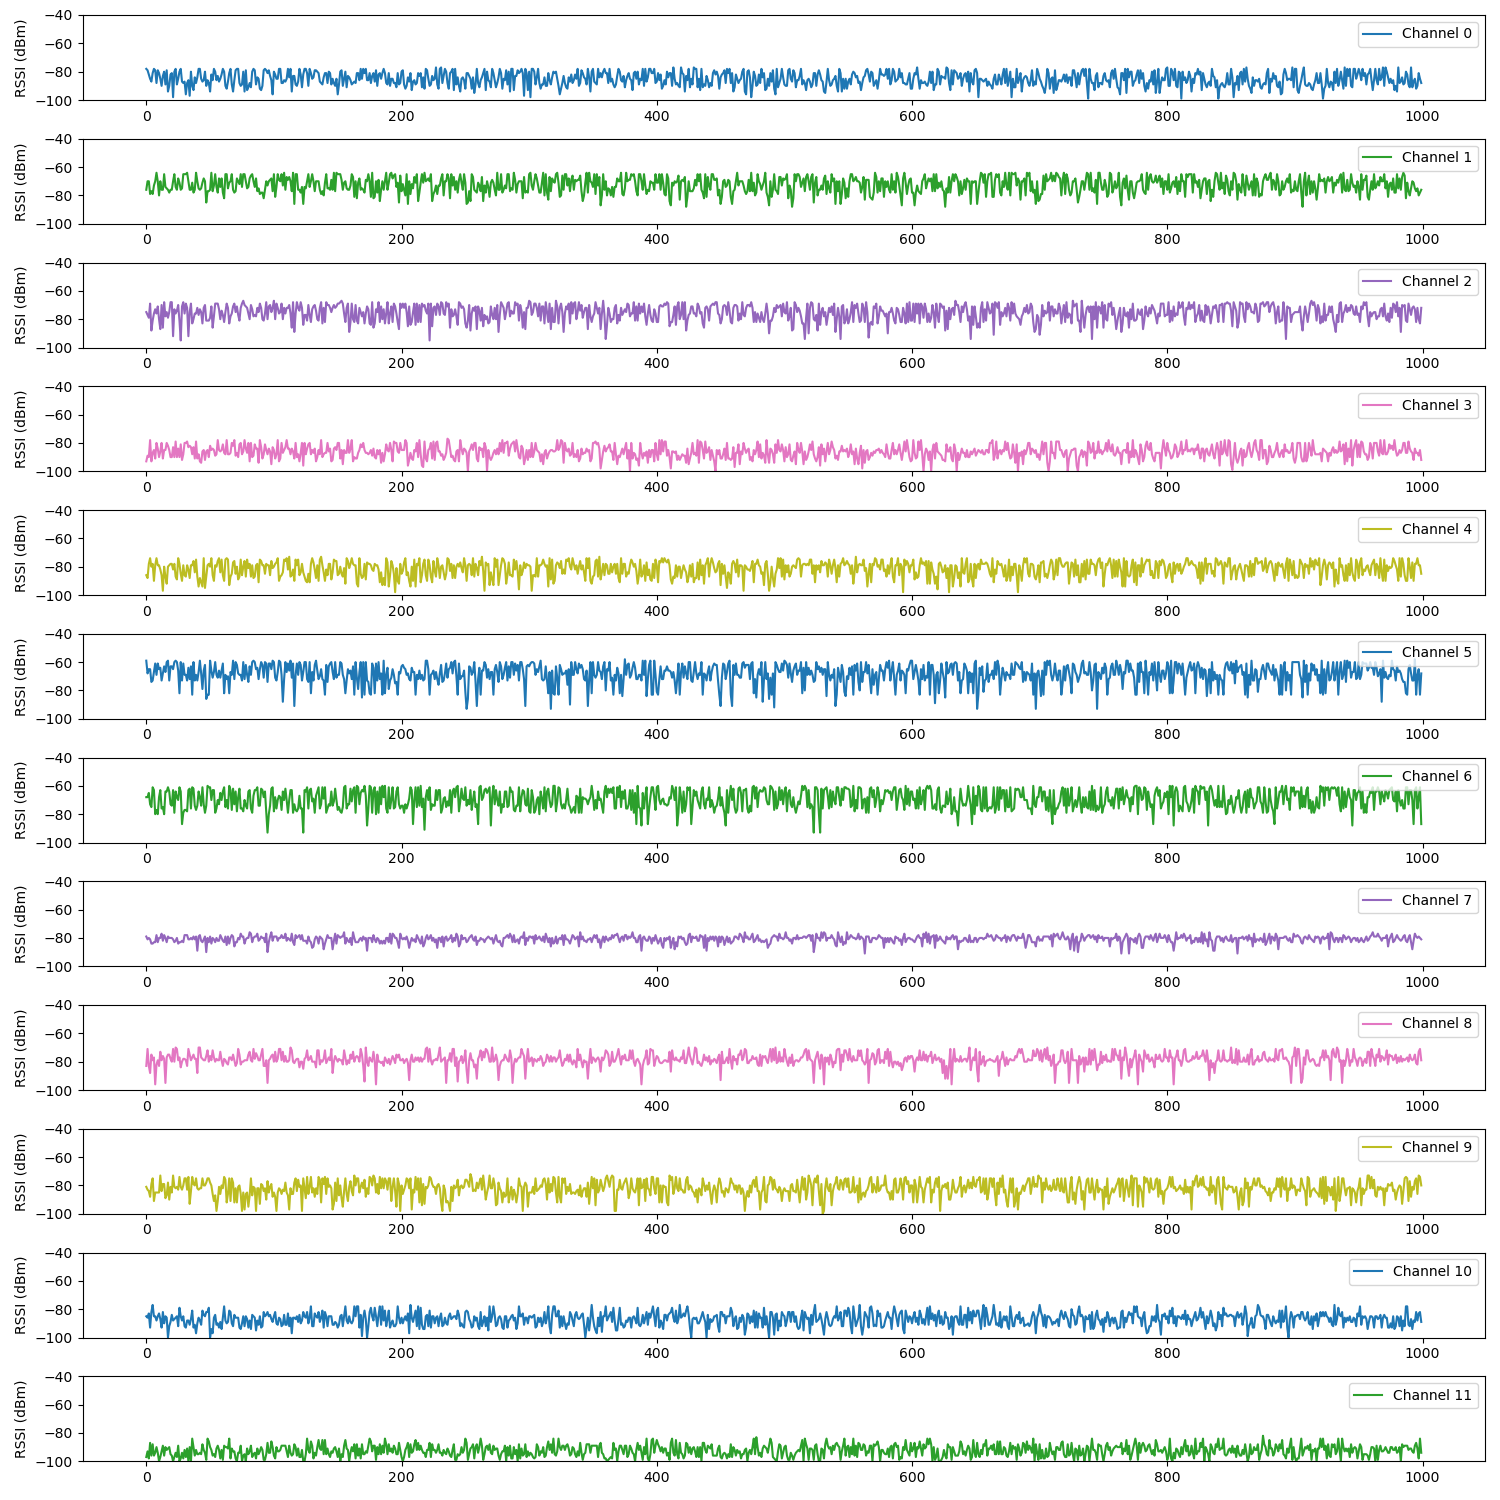
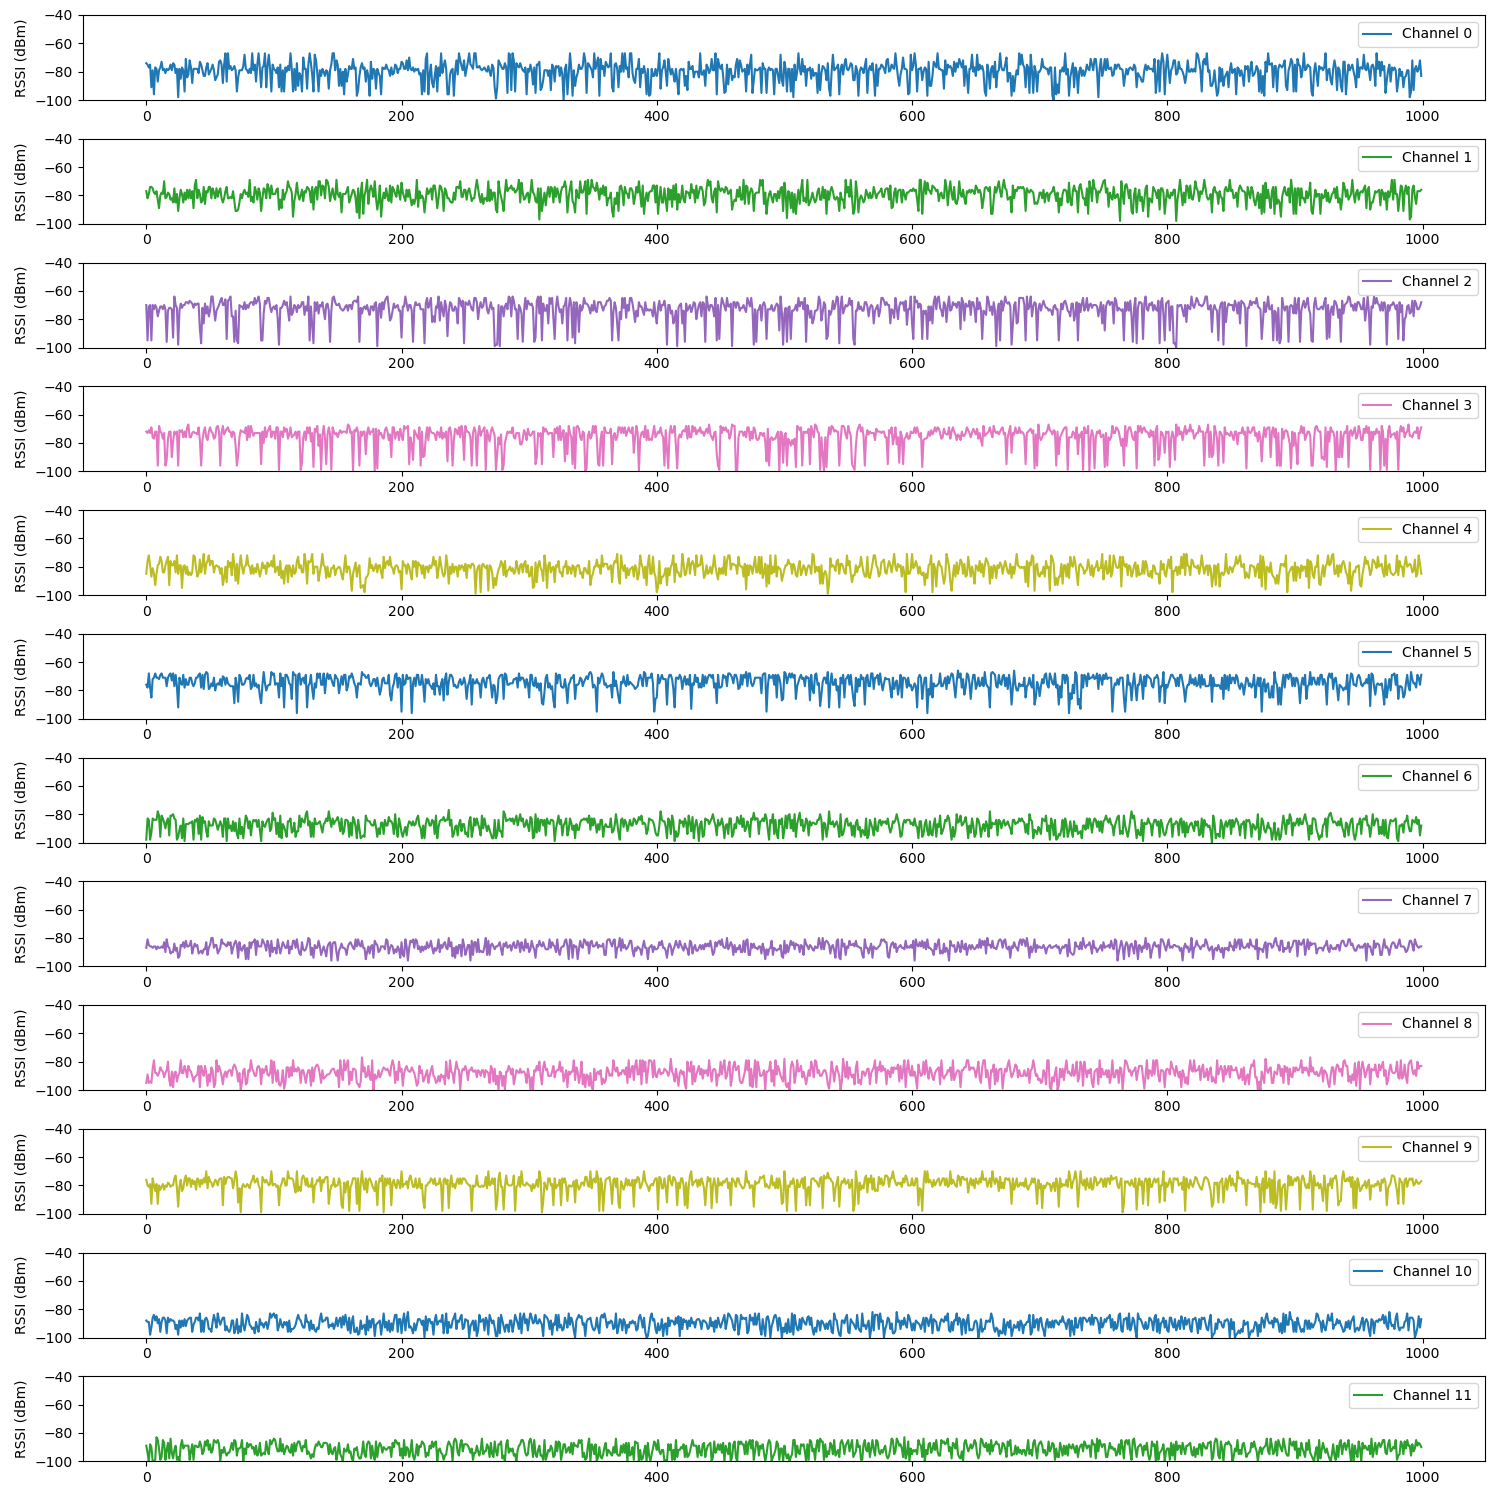
grid search for random forest

diff --git a/src/plotters/one_sample_plot.py b/src/plotters/one_sample_plot.py
@@ -5,10 +5,10 @@ import numpy as np
 from scipy import stats
 import seaborn as sb
 
-LABEL = 'L-04'
-CHANNELS = [0, 2, 3]
+LABEL = 'H-04'
+CHANNELS = [0, 2]
 
-df = pd.read_csv('../../data/datapoints.csv')
+df = pd.read_csv('../../data/sample.csv')
 # filtered_df = pd.read_csv('./data/datapoints_mean_filtered.csv')
 
 raw_data = df.loc[df['label'] == LABEL]
@@ -26,7 +26,7 @@ for channel in CHANNELS:
 
 plt.xlabel("Number of samples")
 plt.ylabel("RSSI (dBm)")
-plt.ylim([-105, -70])
+plt.ylim([-105, -65])
 
 # plt.plot(rssi0_filtered, label="Filtered")
 

diff --git a/src/plotters/plot_kde.py b/src/plotters/plot_kde.py
@@ -1,0 +1,24 @@
+import pandas as pd
+from scipy.stats import norm
+import matplotlib.pyplot as plt
+import seaborn as sns
+
+sns.set_style("whitegrid")
+
+LABEL = 'H-04'
+CHANNEL = 'rssi5'
+
+df = pd.read_csv('../../data/sample.csv')
+data = df.loc[df['label'] == LABEL]
+
+rssi = data[CHANNEL].values
+mu, std = norm.fit(rssi)
+
+sns.kdeplot(data=rssi,
+            color='purple', label='Raw', fill=True, linewidth=0)
+
+title = "µ: {:.2f} σ: {:.2f}".format(mu, std)
+plt.title(title)
+plt.xlabel("RSSI (dBm)")
+
+plt.show()

diff --git a/src/plotters/2d_density_plot.py b/src/plotters/2d_density_plot.py
@@ -1,12 +1,9 @@
-from matplotlib.animation import FuncAnimation
-from files.labels import labels
+from src.labels import labels
 import numpy as np
 import serial
 import pickle
 import matplotlib.pyplot as plt
-import seaborn as sns
 import matplotlib
-import pandas as pd
 
 matplotlib.use("TkAgg")
 
@@ -46,7 +43,6 @@ def convert(arr):
     return array
 
 
-sns.set_style("whitegrid")
 fig, ax = plt.subplots()
 
 # plot reference points

diff --git a/src/plotters/seaborn_plot_single.py b/src/plotters/seaborn_plot_single.py
@@ -24,5 +24,5 @@ ax.legend()
 plt.xlabel("RSSI (dBm)")
 plt.ylabel("Probability Density")
 plt.tight_layout()
-plt.savefig("./figures/rssi kde plot.png")
+# plt.savefig("./figures/rssi kde plot.png")
 plt.show()

diff --git a/src/plotters/visualize_data.py b/src/plotters/visualize_data.py
@@ -3,7 +3,7 @@ import pandas as pd
 import numpy as np
 colors = plt.rcParams["axes.prop_cycle"]()
 
-LABEL = 'L-02'
+LABEL = 'H-02'
 
 df = pd.read_csv('../../data/sample.csv')
 df = df.dropna()
